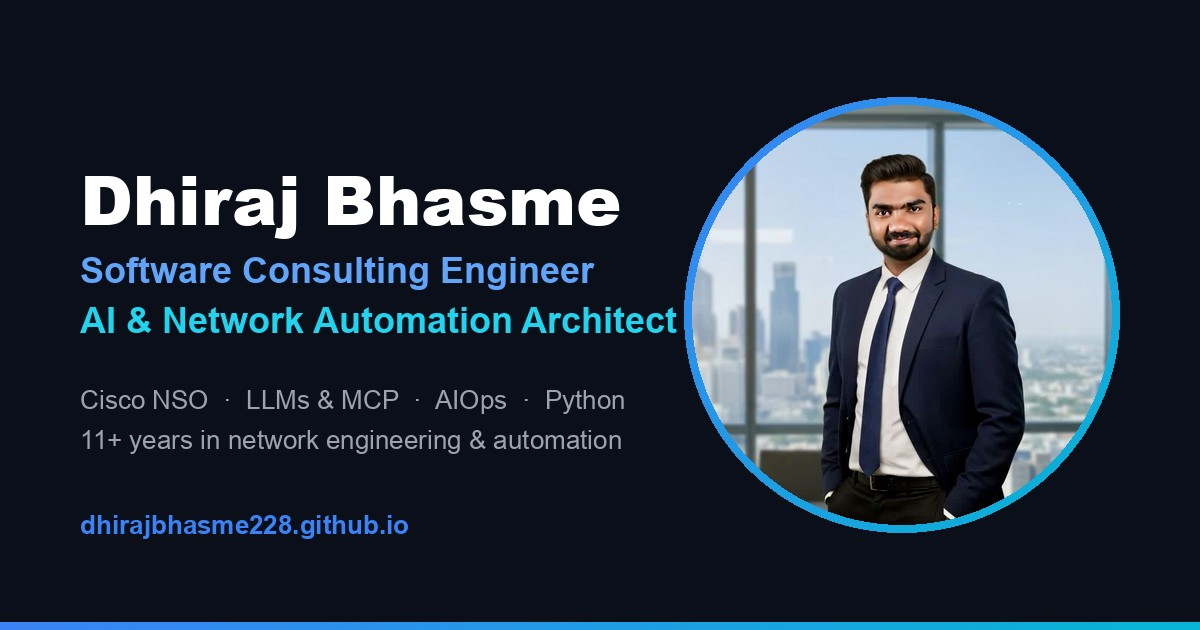
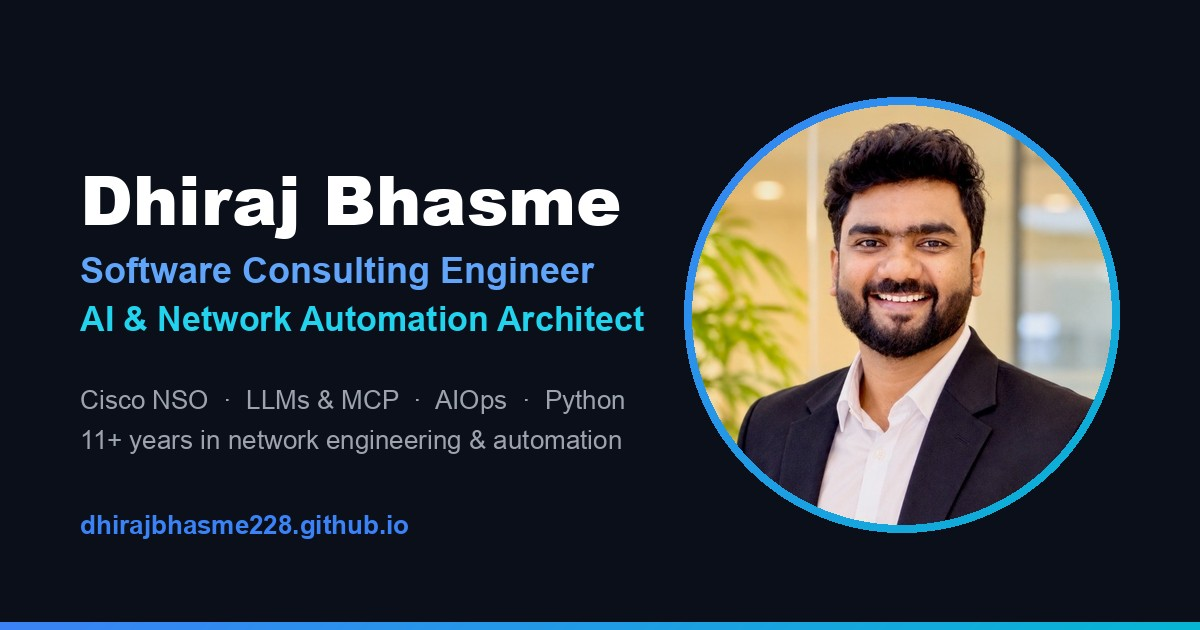
New profile photo in hero and social preview

Changed region(s): [[0.0617, 0.1508, 0.925, 0.8444]]

diff --git a/style.css b/style.css
@@ -305,7 +305,7 @@ img { max-width: 100%; display: block; }
     height: 100%;
     border-radius: 50%;
     object-fit: cover;
-    object-position: 68% 20%;
+    object-position: center;
     background: var(--bg-secondary);
     display: block;
 }
